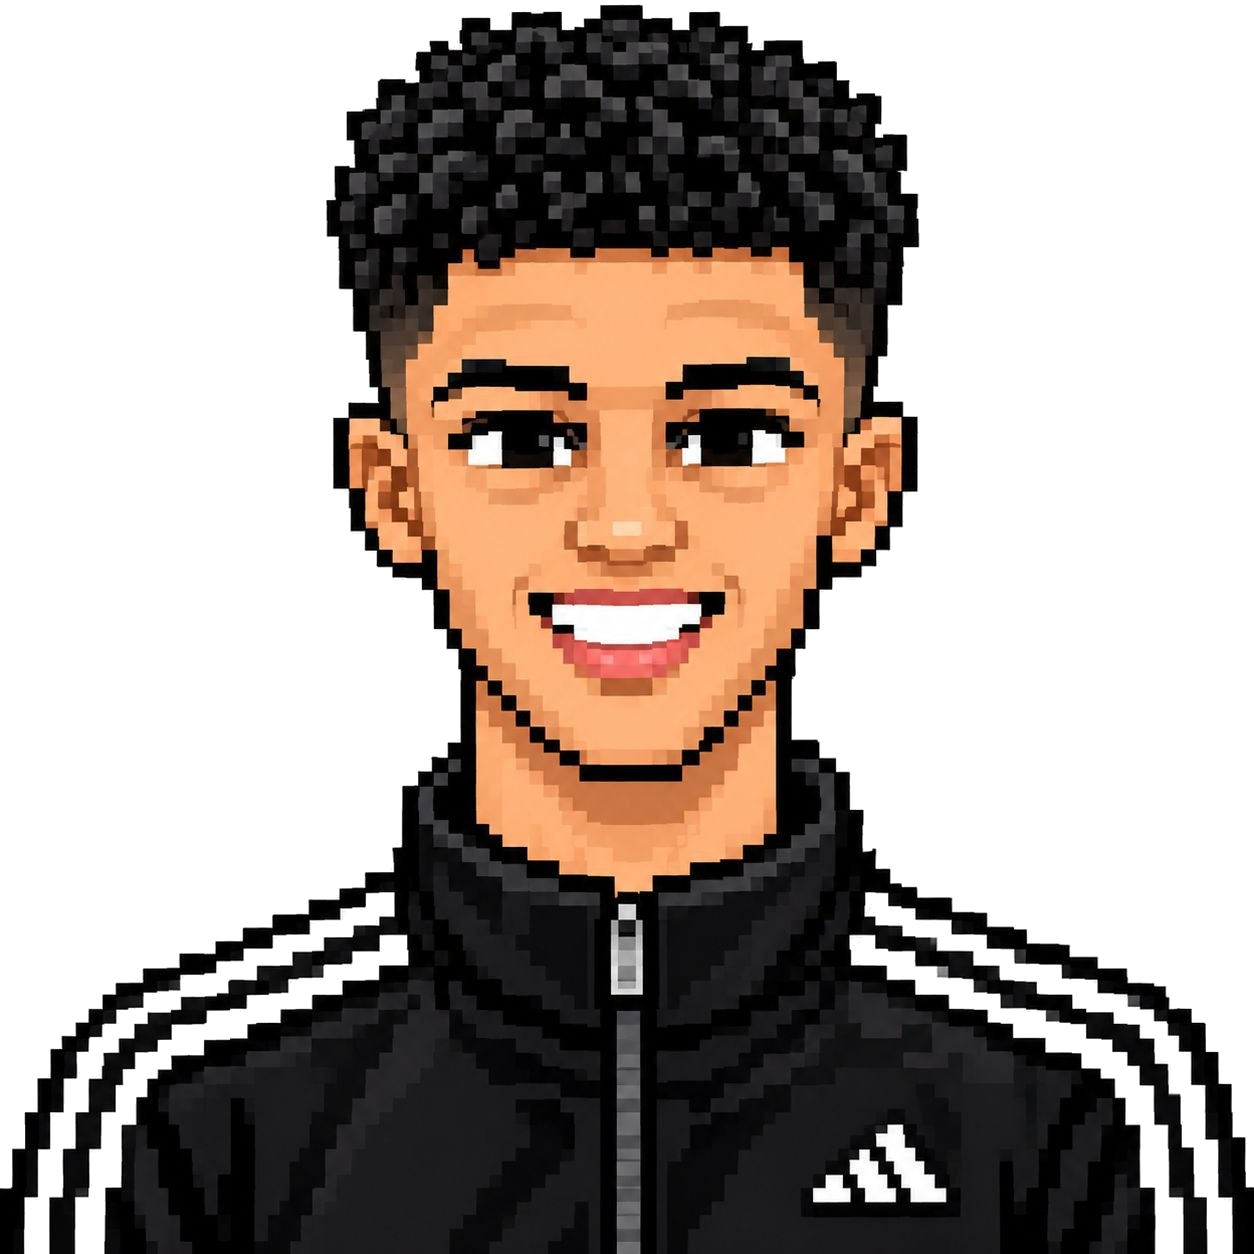
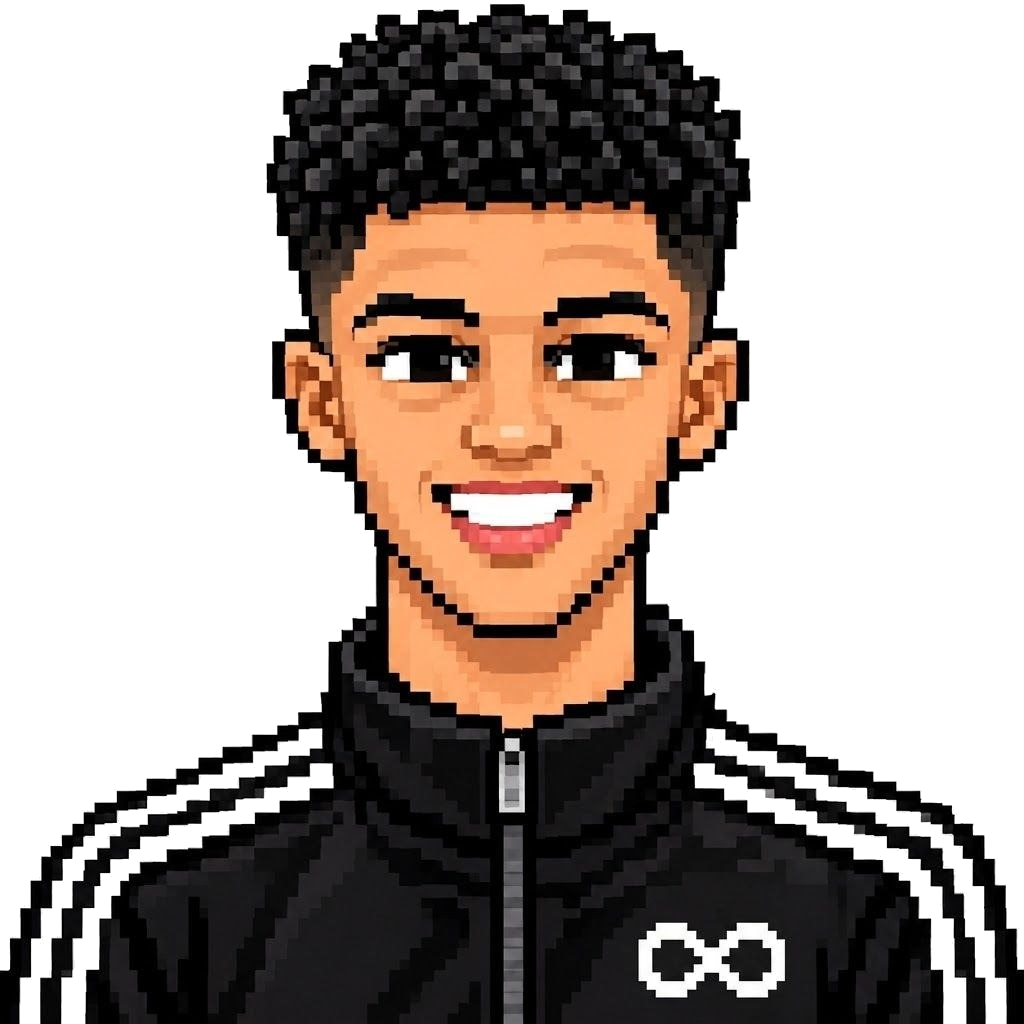
Add files via upload

Changed region(s): [[0.625, 0.875, 0.7812, 1.0], [0.5938, 0.5312, 0.625, 0.5625]]

diff --git a/style.css b/style.css
@@ -144,7 +144,10 @@ p {
 
 /* Buttons */
 .btn {
-    display: inline-block;
+    display: inline-flex;
+    align-items: center;
+    justify-content: center;
+    gap: 0.6rem;
     padding: 0.8rem 2rem;
     border-radius: 50px;
     font-weight: 600;
@@ -155,6 +158,14 @@ p {
     position: relative;
     overflow: hidden;
     z-index: 1;
+}
+
+.hero-btns {
+    display: flex;
+    align-items: center;
+    gap: 1.2rem;
+    flex-wrap: wrap;
+    margin-top: 1.5rem;
 }
 
 .btn-primary {
@@ -190,7 +201,6 @@ p {
     background: transparent;
     border: 2px solid var(--border-hover);
     color: var(--text-primary);
-    margin-left: 1rem;
 }
 
 .btn-outline:hover {
@@ -307,6 +317,19 @@ p {
     position: relative;
     overflow: hidden;
     padding-top: 80px;
+}
+
+/* Smooth Gradient Fade at Bottom of Hero */
+.hero::after {
+    content: '';
+    position: absolute;
+    bottom: 0;
+    left: 0;
+    width: 100%;
+    height: 180px;
+    background: linear-gradient(to bottom, transparent 0%, var(--bg-color) 100%);
+    pointer-events: none;
+    z-index: 3;
 }
 
 .hero-bg {
@@ -439,9 +462,9 @@ p {
     width: 380px;
     height: 480px;
     border-radius: 28px;
-    background: linear-gradient(160deg, rgba(255, 255, 255, 0.08) 0%, rgba(255, 255, 255, 0.02) 100%), var(--surface-color);
-    border: 1px solid var(--border-color);
-    box-shadow: 0 20px 45px -10px rgba(0, 0, 0, 0.3), 0 0 35px var(--accent-glow);
+    background: radial-gradient(circle at 50% 20%, #ffffff 0%, #f1f4ff 50%, #e2e8fc 100%);
+    border: 1px solid rgba(255, 255, 255, 0.8);
+    box-shadow: 0 20px 45px -10px rgba(59, 130, 246, 0.2), 0 0 35px var(--accent-glow);
     overflow: visible;
     transform-style: preserve-3d;
     transition: box-shadow var(--transition-smooth), transform 0.25s ease-out;
@@ -450,6 +473,12 @@ p {
     display: flex;
     align-items: flex-end;
     justify-content: center;
+}
+
+.dark-mode .image-wrapper {
+    background: radial-gradient(circle at 50% 25%, #1b2035 0%, #111422 60%, #0a0c16 100%);
+    border: 1px solid rgba(255, 255, 255, 0.08);
+    box-shadow: 0 20px 45px -10px rgba(0, 0, 0, 0.5), 0 0 35px var(--accent-glow);
 }
 
 .image-wrapper:hover {
@@ -469,6 +498,8 @@ p {
     transition: transform 0.3s cubic-bezier(0.34, 1.56, 0.64, 1);
     animation: avatar-float 5s ease-in-out infinite;
     pointer-events: none;
+    -webkit-mask-image: linear-gradient(to bottom, black 80%, rgba(0, 0, 0, 0.4) 94%, transparent 100%);
+    mask-image: linear-gradient(to bottom, black 80%, rgba(0, 0, 0, 0.4) 94%, transparent 100%);
 }
 
 @keyframes avatar-float {
@@ -736,6 +767,7 @@ p {
     left: 50%;
     transform: translateX(-50%);
     opacity: 0.7;
+    z-index: 10;
 }
 
 .mouse {
@@ -1188,7 +1220,8 @@ footer {
 
     .hero {
         padding-top: 100px;
-        /* More space for navbar */
+        padding-bottom: 90px;
+        /* More space for navbar & smooth gradient fade */
         height: auto;
         min-height: 100vh;
     }
@@ -1355,60 +1388,154 @@ footer {
 
 /* RTL Layout Direction Overrides */
 html[dir="rtl"] {
+    --font-heading: 'Cairo', 'Outfit', sans-serif;
+    --font-body: 'Cairo', 'Inter', sans-serif;
+    font-family: var(--font-body);
     text-align: right;
 }
-html[dir="rtl"] .logo {
-    flex-direction: row-reverse;
+
+html[dir="rtl"] h1,
+html[dir="rtl"] h2,
+html[dir="rtl"] h3,
+html[dir="rtl"] h4,
+html[dir="rtl"] .section-subtitle,
+html[dir="rtl"] .logo,
+html[dir="rtl"] .btn,
+html[dir="rtl"] .huge-text {
+    letter-spacing: 0;
 }
-html[dir="rtl"] .nav-menu {
-    flex-direction: row-reverse;
-}
-html[dir="rtl"] .btn-outline {
-    margin-left: 0;
-    margin-right: 1rem;
-}
-html[dir="rtl"] .about-creative {
-    order: 2;
-}
-html[dir="rtl"] .about-text {
-    order: 1;
+
+html[dir="rtl"] .hero-text {
     text-align: right;
 }
-html[dir="rtl"] .skills-grid {
-    flex-direction: row-reverse;
+
+html[dir="rtl"] .hero-text p {
+    line-height: 1.8;
+}
+
+html[dir="rtl"] .hero-btns {
     justify-content: flex-start;
 }
+
+html[dir="rtl"] .nav-link::after {
+    left: auto;
+    right: 0;
+}
+
+html[dir="rtl"] .about-text {
+    text-align: right;
+}
+
+html[dir="rtl"] .about-text p {
+    line-height: 1.8;
+}
+
+html[dir="rtl"] .creative-name-container {
+    text-align: right;
+    line-height: 1.15;
+}
+
+html[dir="rtl"] .huge-text {
+    font-size: clamp(2.8rem, 5.5vw, 4.8rem);
+    letter-spacing: 0;
+}
+
+html[dir="rtl"] .stroke-text {
+    left: auto;
+    right: 25px;
+    -webkit-text-stroke: 1.5px var(--accent-primary);
+}
+
+html[dir="rtl"] .decorative-line {
+    margin-right: 0;
+    margin-left: auto;
+}
+
+html[dir="rtl"] .skills-grid {
+    justify-content: flex-start;
+}
+
 html[dir="rtl"] .timeline::before {
     left: auto;
     right: 20px;
 }
+
 html[dir="rtl"] .timeline-item {
     padding-left: 0;
     padding-right: 60px;
     text-align: right;
 }
+
 html[dir="rtl"] .timeline-item::before {
     left: auto;
     right: 11px;
 }
 
+html[dir="rtl"] .project-info {
+    text-align: right;
+}
+
+html[dir="rtl"] .project-desc {
+    line-height: 1.7;
+}
+
+html[dir="rtl"] .service-card {
+    text-align: right;
+}
+
+html[dir="rtl"] .service-card p {
+    line-height: 1.7;
+}
+
 @media (max-width: 768px) {
+    html[dir="rtl"] .hero-text {
+        text-align: center;
+    }
+
+    html[dir="rtl"] .hero-btns {
+        justify-content: center;
+    }
+
+    html[dir="rtl"] .creative-name-container {
+        text-align: center;
+    }
+
+    html[dir="rtl"] .stroke-text {
+        right: 0;
+    }
+
+    html[dir="rtl"] .decorative-line {
+        margin: 2rem auto 0;
+    }
+
+    html[dir="rtl"] .about-text {
+        text-align: center;
+    }
+
+    html[dir="rtl"] .skills-grid {
+        justify-content: center;
+    }
+
     html[dir="rtl"] .timeline::before {
         left: auto;
         right: 10px;
     }
+
     html[dir="rtl"] .timeline-item {
         padding-left: 0;
         padding-right: 40px;
     }
+
     html[dir="rtl"] .timeline-item::before {
         left: auto;
         right: 1px;
     }
+
     html[dir="rtl"] .nav-menu {
         right: auto;
         left: -100%;
     }
+
     html[dir="rtl"] .nav-menu.active {
         left: 0;
         right: auto;

diff --git a/index.html b/index.html
@@ -8,11 +8,11 @@
         content="Portfolio of Abdelrahman Ahmed, a creative Graphic Designer specializing in visual design, branding, and photo manipulation.">
     <title>Abdelrahman Ahmed | Graphic Designer</title>
 
-    <!-- Google Fonts: Outfit for headers, Inter for body -->
+    <!-- Google Fonts: Outfit, Inter, and Cairo for Arabic -->
     <link rel="preconnect" href="https://fonts.googleapis.com">
     <link rel="preconnect" href="https://fonts.gstatic.com" crossorigin>
     <link
-        href="https://fonts.googleapis.com/css2?family=Inter:wght@300;400;500;600&family=Outfit:wght@400;500;700;800&display=swap"
+        href="https://fonts.googleapis.com/css2?family=Cairo:wght@400;500;600;700;800;900&family=Inter:wght@300;400;500;600&family=Outfit:wght@400;500;700;800&display=swap"
         rel="stylesheet">
 
     <link rel="stylesheet" href="style.css">
@@ -247,7 +247,7 @@
     <!-- Experience / Timeline Section -->
     <section class="experience section-padding">
         <div class="container">
-            <div class="section-header">
+            <div class="section-header center-text">
                 <span class="section-subtitle" data-i18n="experience-subtitle">Career Path</span>
                 <h2 class="section-title" data-i18n="experience-title">Experience</h2>
             </div>
